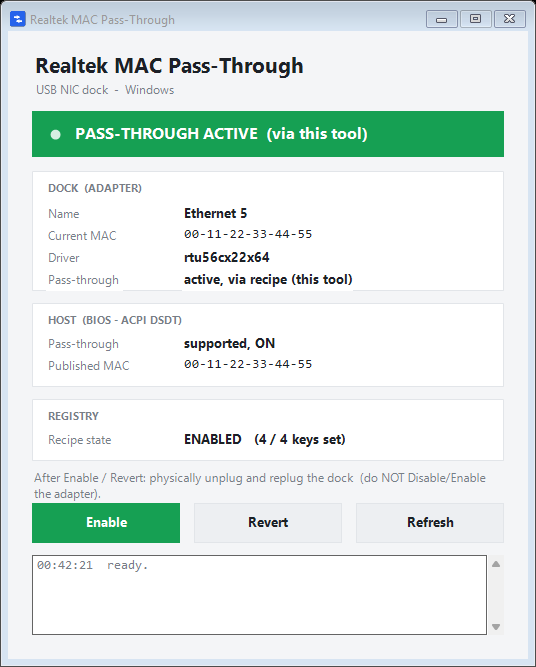
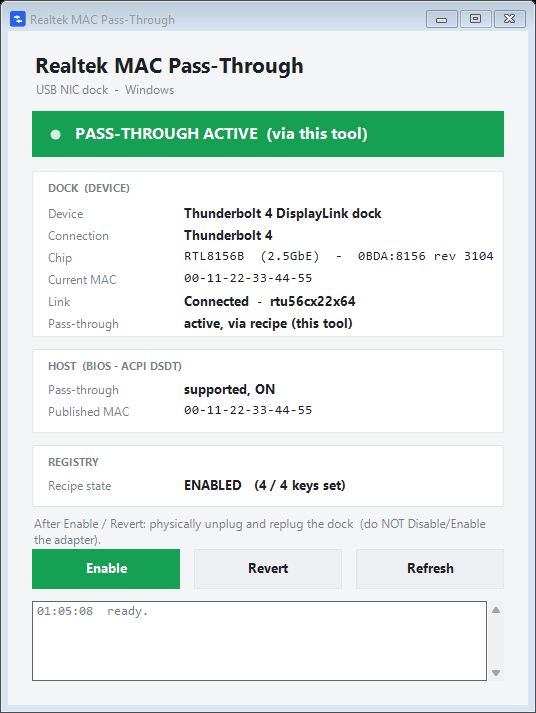
@ Enrich Dock card into a device view (chip, connection, link)
Read device-level facts live from PnP and show them in the Dock card: what the
dock is (e.g. Thunderbolt 4 DisplayLink dock, inferred from TBT* product strings
+ DisplayLink presence), how it is connected (Thunderbolt vs USB), the chip and
speed (RTL8156B / RTL8153 ... from USB PID+REV), USB id, MAC and link state.
New Get-DockInfo helper in GUI and CLI; GUI layout reflowed for the extra rows;
all screenshots regenerated; README updated. Resolves the transient
"DOCK NIC NOT FOUND" by matching the Realtek USB NIC robustly by USB vendor id.
@

diff --git a/README.md b/README.md
@@ -28,8 +28,10 @@ Two ways to use it — pick one. Both read everything from the system and are fu
 
 ### GUI  (recommended)
 In the **`gui/`** folder, run **`passthrough-GUI.bat`** (it elevates to Administrator). A small window
-shows the dock adapter, its current MAC, the pass-through MAC your firmware publishes, the recipe
-state, and **Enable / Revert / Refresh** buttons.
+identifies your dock as a **device** — read live from the system: what it is (e.g. *Thunderbolt 4
+DisplayLink dock*), how it is connected (**Thunderbolt** vs plain USB), the **chip + speed**
+(e.g. *RTL8156B · 2.5GbE*), its USB id, MAC and link state — alongside the pass-through status
+(host + dock, see below), the recipe state, and **Enable / Revert / Refresh** buttons.
 
 ### CLI  (scripting / automation)
 In the **`cli/`** folder, as Administrator:
